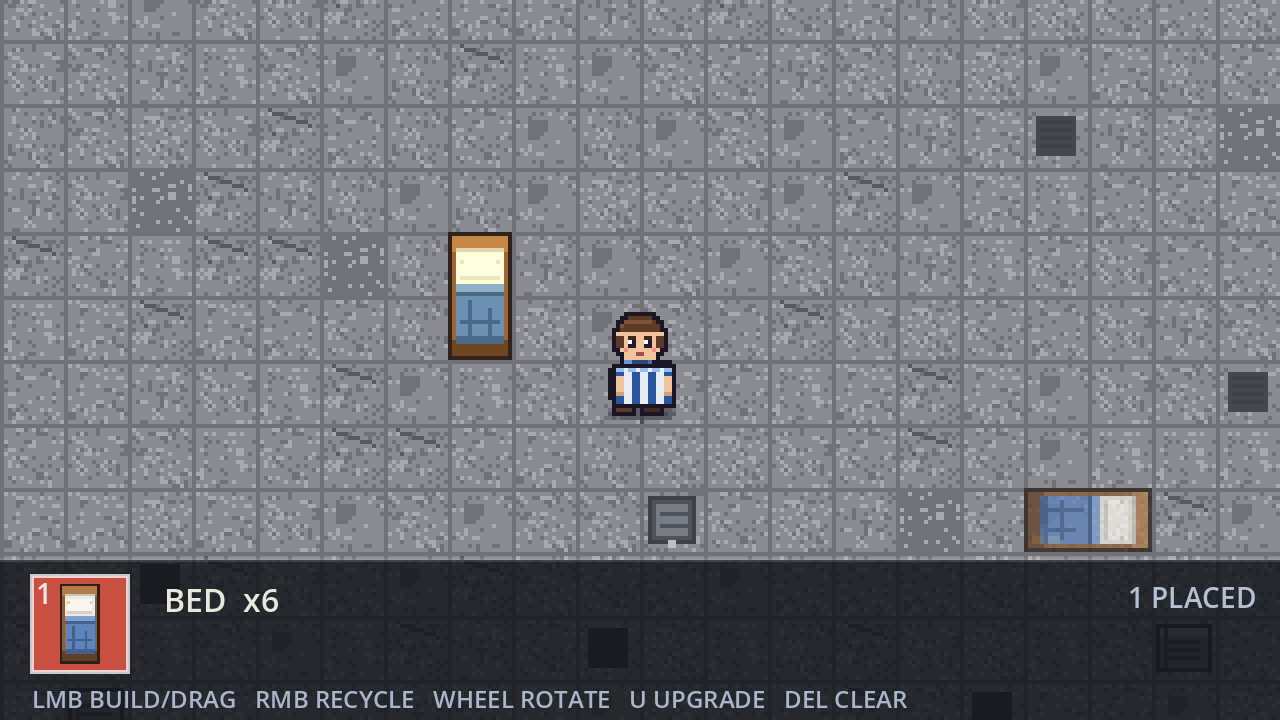
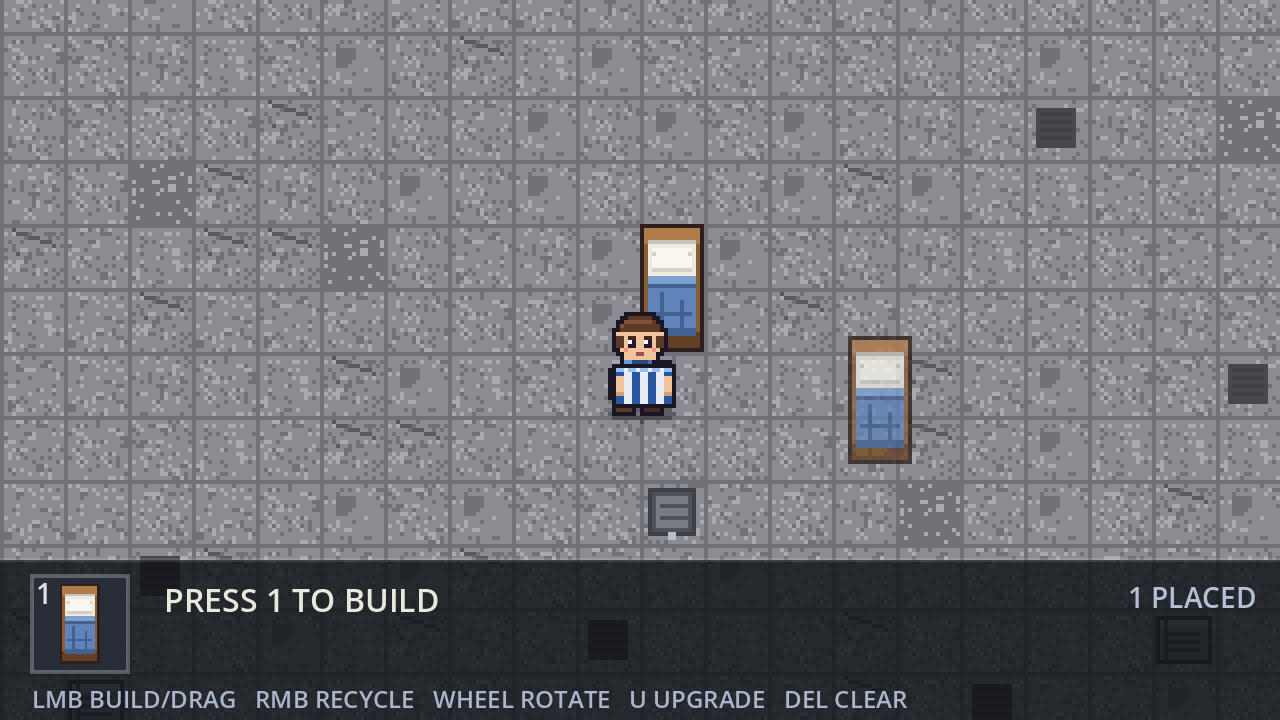
feat: 拖动家具时实时跟鼠标（松手才吸附格子），拖动期间关闭碰撞

diff --git a/README.md b/README.md
@@ -598,7 +598,8 @@ after 3.5s-> 0 只（确认不再刷）
   家具本身画在 `z_index = 0`（人物是 1），所以人永远画在家具前面、不会“钻到床后面”。
 - **旋转 / 拖动 / 仓库**：
   - 滚轮转 90° 一档，占地在 1×2 和 2×1 之间切换（转不开会自动保持原样）；
-  - 按住左键可以把家具拖到别的格子，放不下就弹回原位；
+  - 按住左键可以把家具拖到别的格子：拖动时家具**实时跟着鼠标**（不吸附格子），松手才对齐到格子，
+    放不下就弹回原位；拖动期间碰撞体临时关掉，不会挡住人；
   - 右键回收，家具退回仓库（`xN` 显示在 HUD 上，初始 8 件），放置会扣 1 件；
   - 布局 + 库存都存进 `user://base_layout.json`。
 - `base_builder.gd`：
